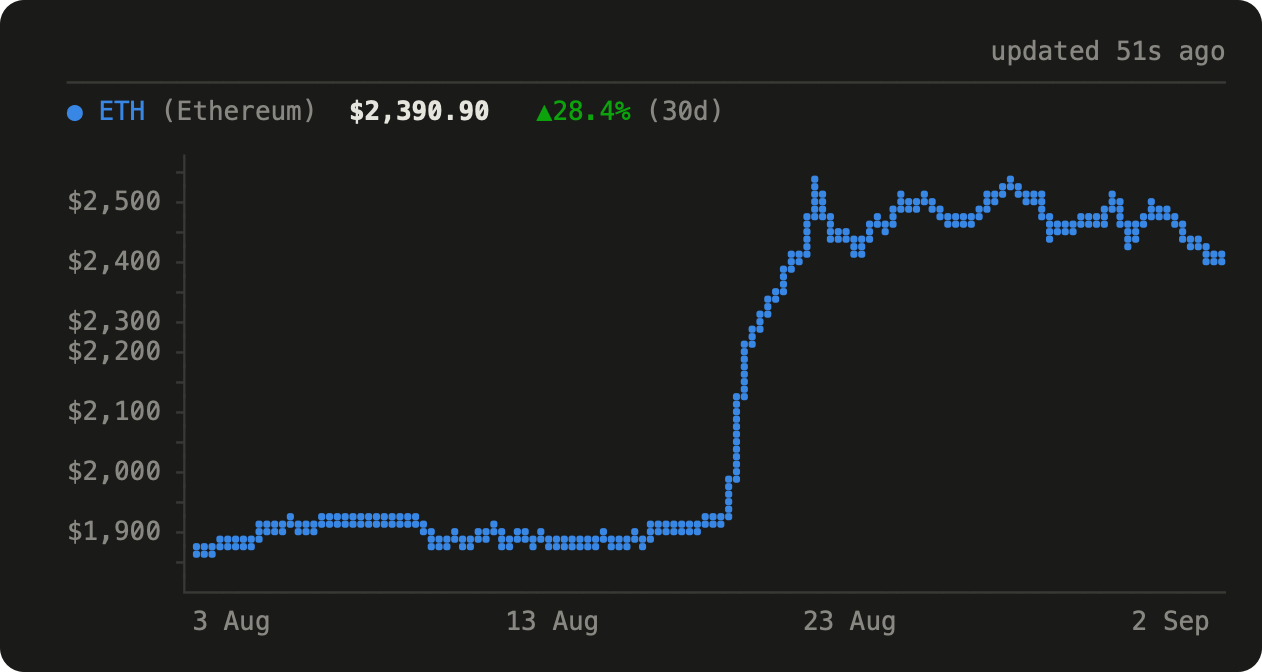
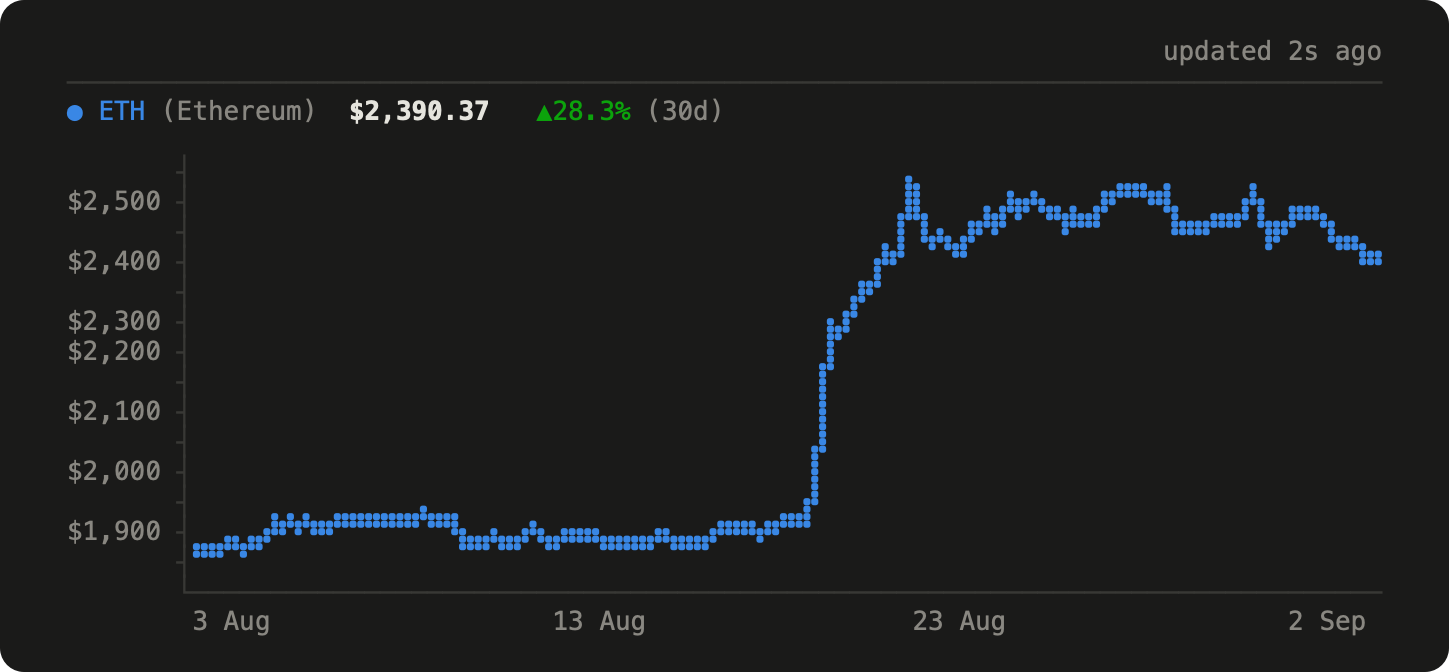
Pad every screenshot to one window width
They were four different widths, so left-aligned their right edges stepped in and
out, and centring them — the other way to tidy that up — would have moved each
terminal's *left* edge instead, by as much as 67px between the first two. The
edge a reader tracks is the left one, and it belongs on the same spine as the
prose. So the window is a fixed 88 columns now, whatever the output fills, and all
four line up on both edges.

The render script grew the column count as an argument, and warms the prices
through a config with no wallets in it first: a forced refresh with the real one
reads the placeholder addresses for real, and the screenshots are meant to show
figures nobody has to trust.

diff --git a/assets/screenshot.swift b/assets/screenshot.swift
@@ -5,7 +5,7 @@
 // monospaced font, so what the README shows is what the terminal shows.
 //
 //     CLICOLOR_FORCE=1 COLORTERM=truecolor COINS_WIDTH=78 coins > /tmp/out.txt
-//     swift assets/screenshot.swift /tmp/out.txt docs/market.png
+//     swift assets/screenshot.swift /tmp/out.txt docs/market.png 88
 //
 // Only the escapes theme.rs emits are understood: truecolor foregrounds, bold, and
 // the resets for each.
@@ -13,6 +13,10 @@ import AppKit
 
 let inPath  = CommandLine.arguments[1]
 let outPath = CommandLine.arguments[2]
+// A window this many columns wide, whatever the output happens to fill. Every
+// screenshot on the page is padded to the same number, so left-aligned they line
+// up on both edges instead of stepping in and out with their content.
+let minCols = CommandLine.arguments.count > 3 ? Int(CommandLine.arguments[3])! : 0
 // The dark surface the palette was validated against, and its default ink.
 let ground = NSColor(srgbRed: 0.102, green: 0.102, blue: 0.098, alpha: 1)
 let ink    = NSColor(srgbRed: 0.898, green: 0.894, blue: 0.867, alpha: 1)
@@ -80,7 +84,7 @@ let cellW = ("M" as NSString).size(withAttributes: [.font: font]).width
 let lineH = (font.ascender - font.descender + font.leading).rounded()
 let pad = 18 * scale
 
-let cols = parsed.map { $0.reduce(0) { $0 + $1.text.count } }.max() ?? 0
+let cols = max(parsed.map { $0.reduce(0) { $0 + $1.text.count } }.max() ?? 0, minCols)
 let W = Int((CGFloat(cols) * cellW + 2*pad).rounded())
 let H = Int((CGFloat(lines.count) * lineH + 2*pad).rounded())
 

diff --git a/README.md b/README.md
@@ -7,17 +7,17 @@
 Cryptocurrency prices, charts and holdings in your terminal. Prices come from
 [CoinGecko](https://docs.coingecko.com), quoted directly in your own currency.
 
-<img src="docs/market.png" width="568" alt="Three coins with their price and the change over 1h, 24h, 30 days, 6 months and a year">
+<img src="docs/market.png" width="724" alt="Three coins with their price and the change over 1h, 24h, 30 days, 6 months and a year">
 
 One row per coin: the price, then a change column for every period you name.
 
 `coins plot` draws the charts, as many to a row as the terminal fits:
 
-<img src="docs/plot.png" width="701" alt="Four charts in a two-by-two grid: BTC, ETH, SOL and STRK over a month">
+<img src="docs/plot.png" width="724" alt="Four charts in a two-by-two grid: BTC, ETH, SOL and STRK over a month">
 
 `coins eth` draws one of them alone:
 
-<img src="docs/eth.png" width="631" alt="One full-width chart of ETH over a month">
+<img src="docs/eth.png" width="724" alt="One full-width chart of ETH over a month">
 
 Curves are braille dots, 2×4 to a character cell, so they stay smooth at any width.
 
@@ -104,7 +104,7 @@ chain follows from the address — `0x` and 40 hex digits is Ethereum, 43–44 b
 characters is Solana — and one address holds the chain's own coin plus any token you
 track, so the group has a row per holding rather than per address.
 
-<img src="docs/balance.png" width="631" alt="The balance view: coins, then addresses with amounts, a total and an allocation bar">
+<img src="docs/balance.png" width="724" alt="The balance view: coins, then addresses with amounts, a total and an allocation bar">
 
 The addresses and amounts above are made up.
 
